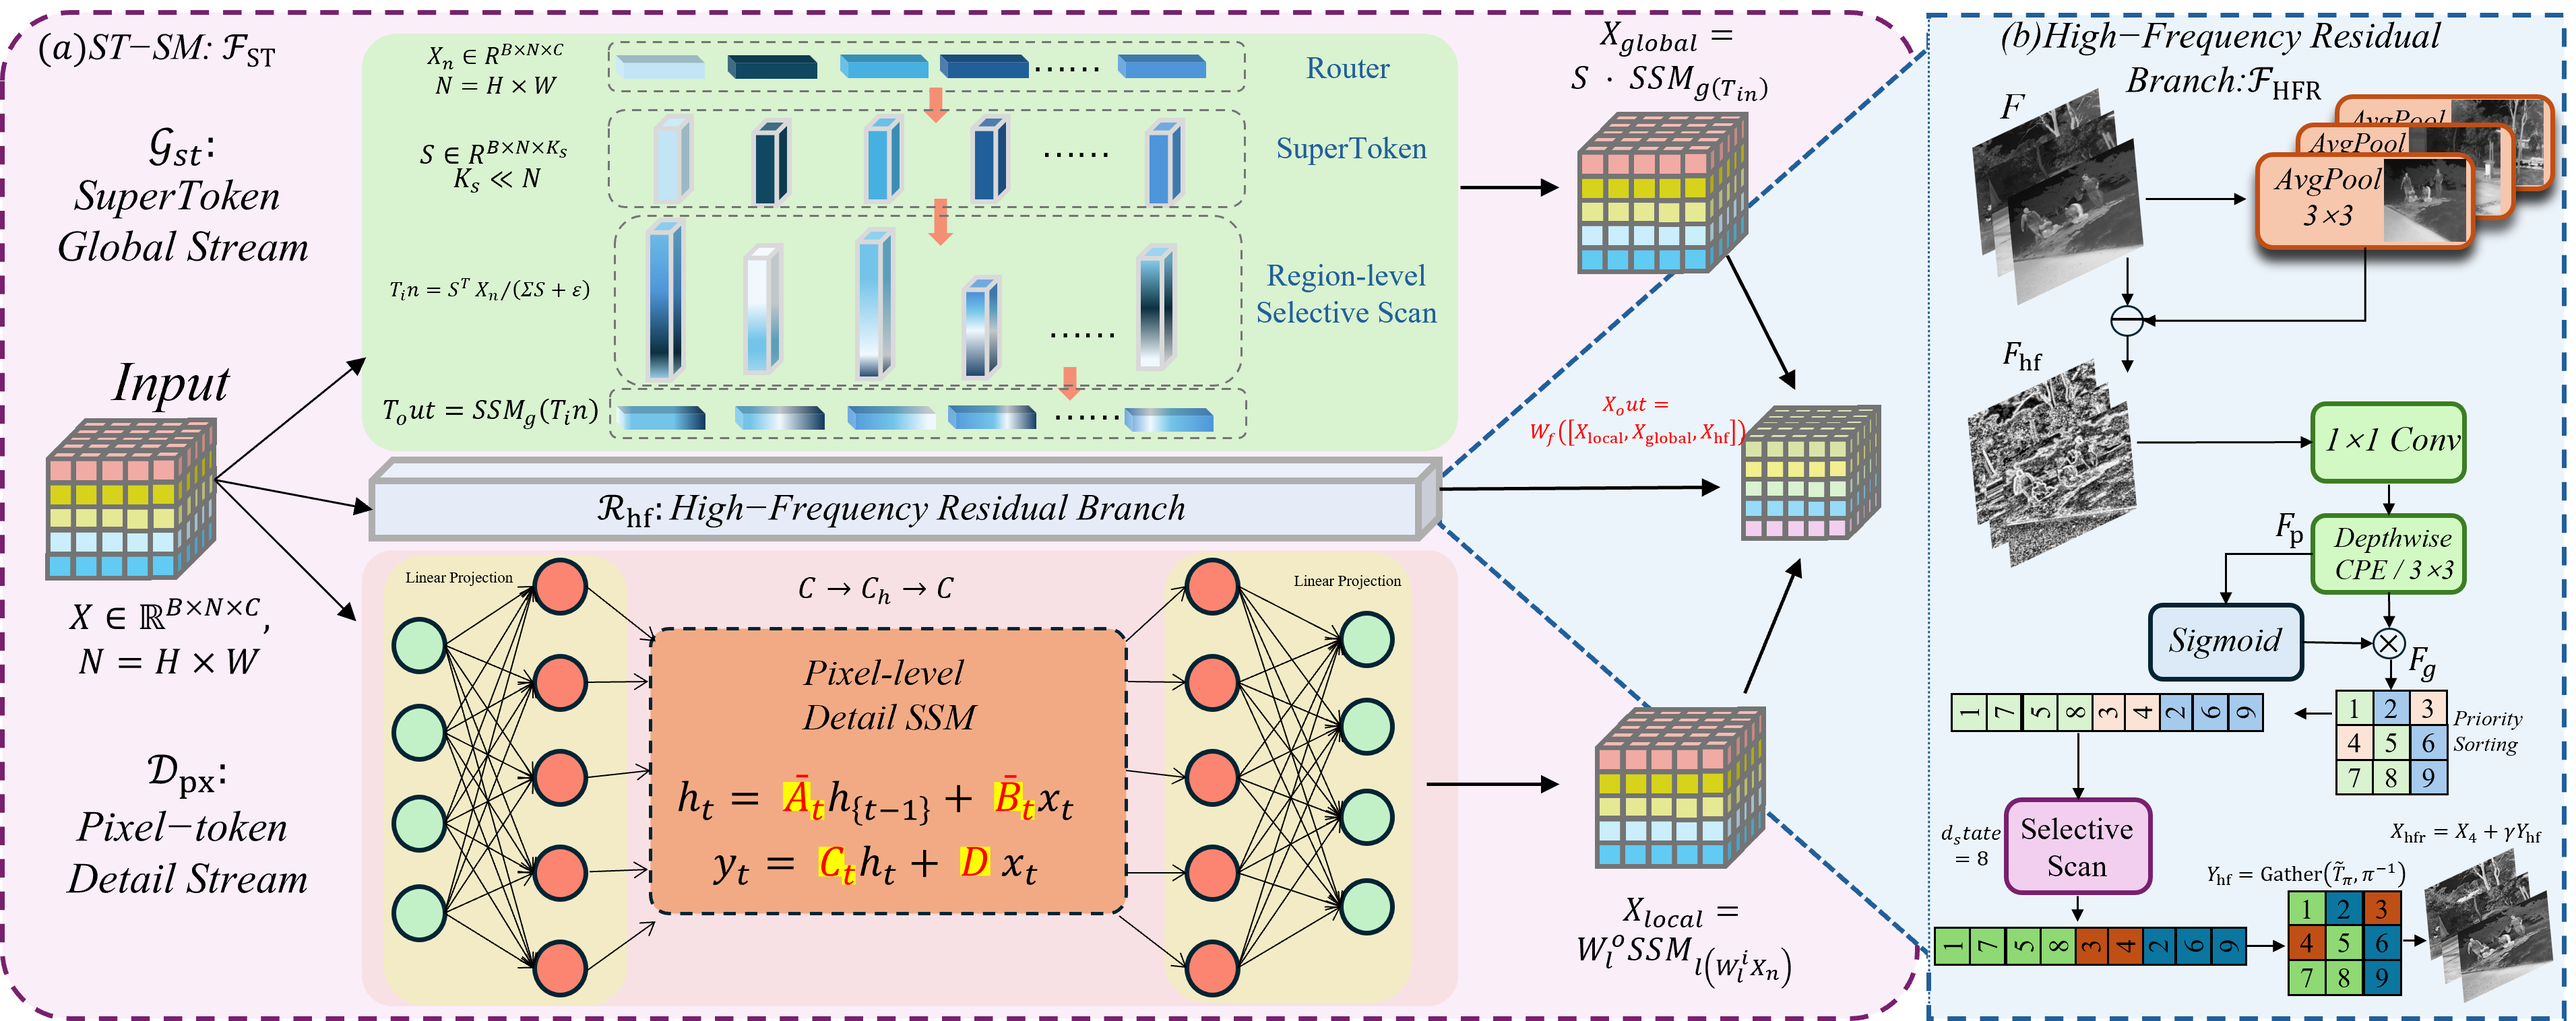
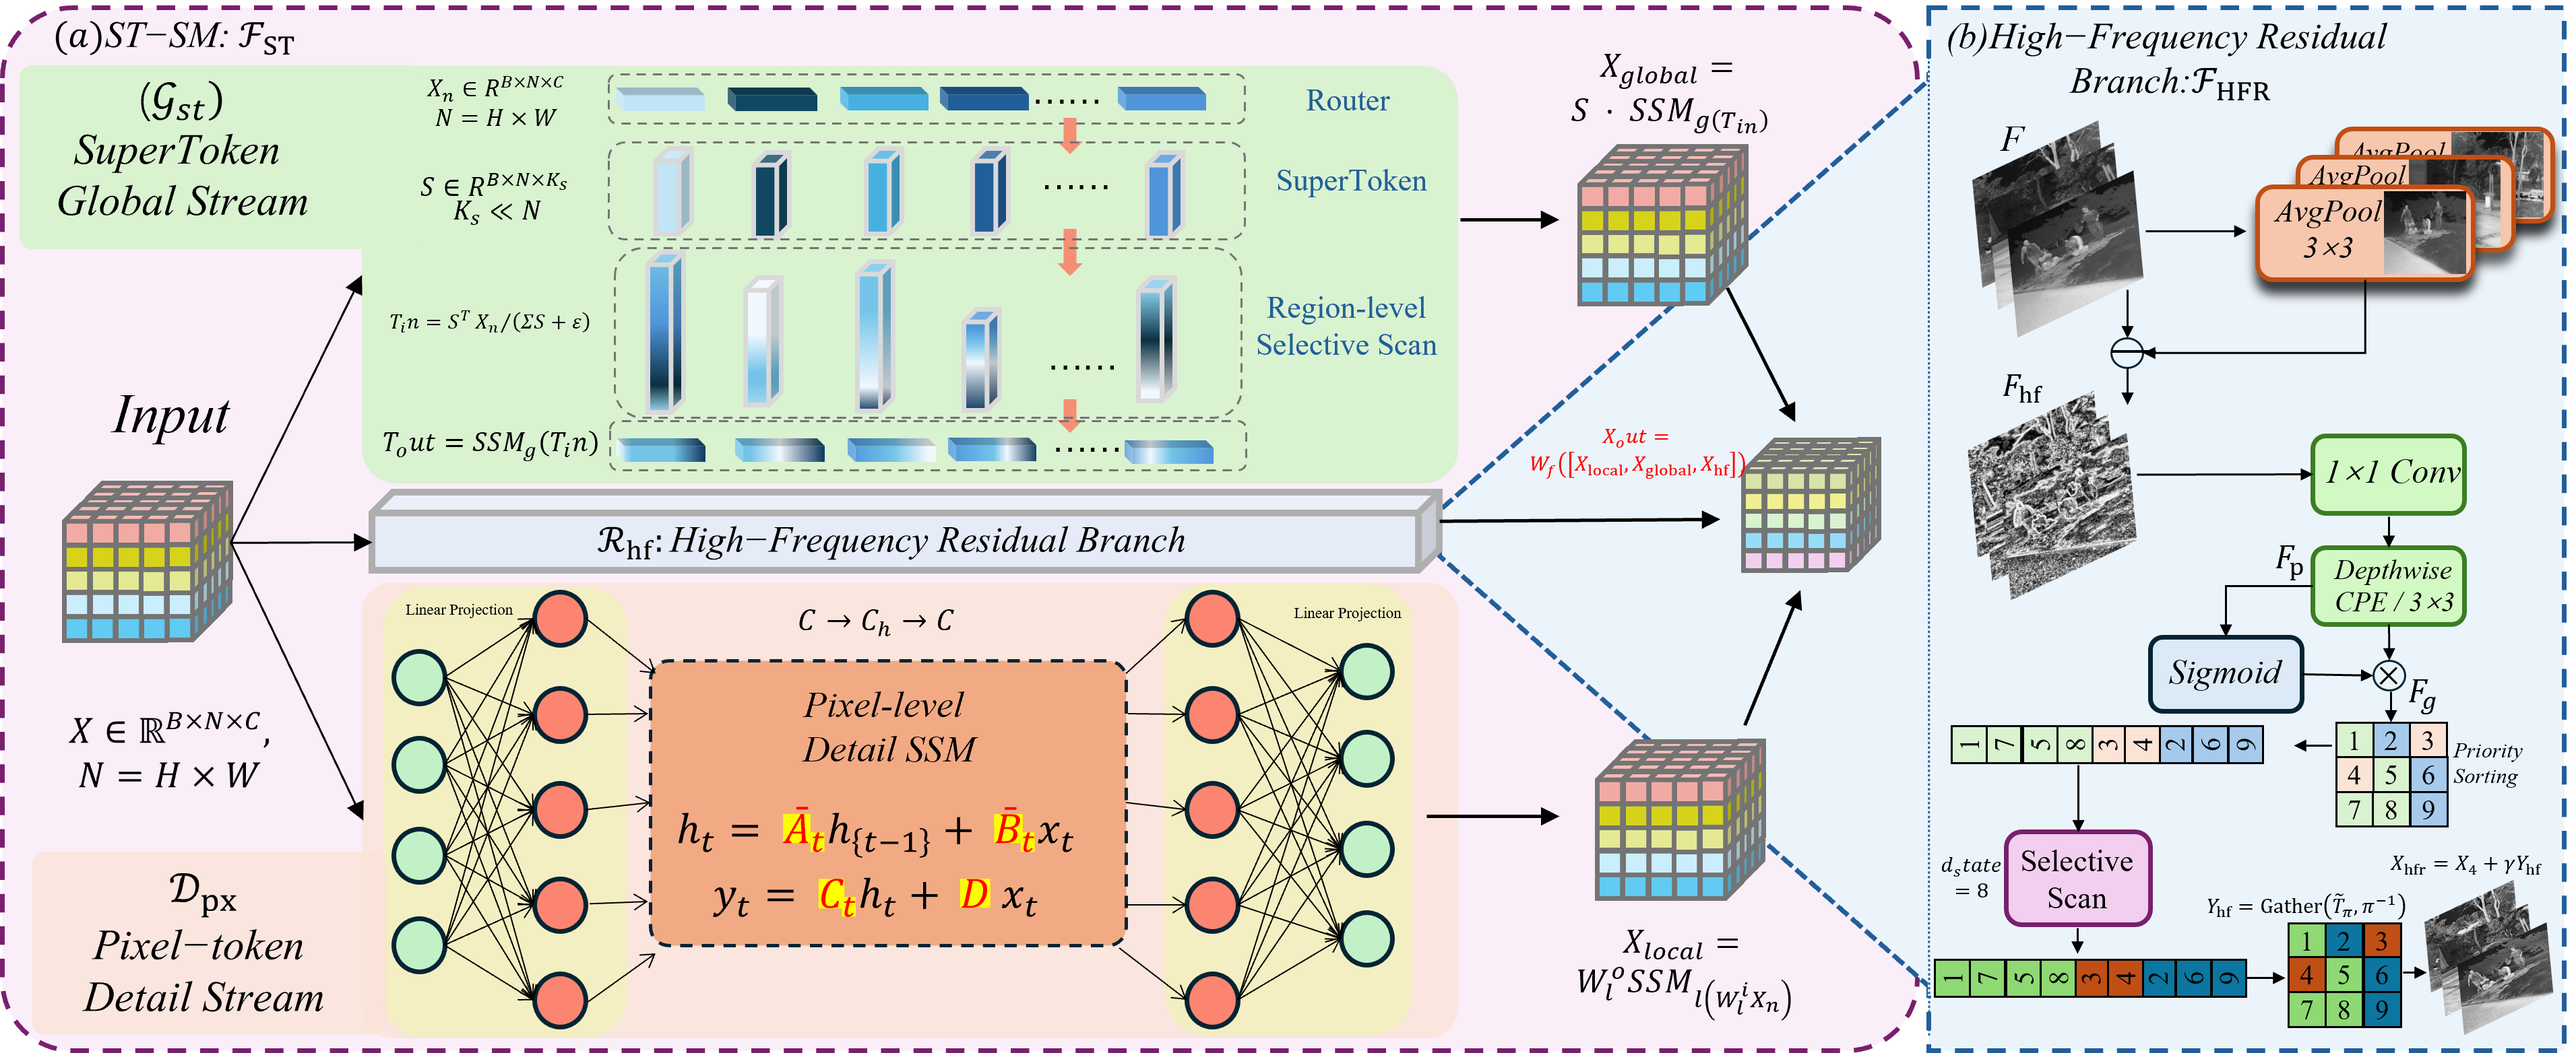
Update WHT3H link and module figure

diff --git a/README.md b/README.md
@@ -66,7 +66,7 @@ Public dataset/source links:
 - T234: [Google Drive](https://drive.google.com/file/d/10jM3NxV17t9_vfnmk7o1-rfEBf2GQRwC/view?usp=drive_link)
 - HM-TIR: [https://github.com/Zihang-Chen/HM-TIR](https://github.com/Zihang-Chen/HM-TIR)
 - Rivadeneira2020: [Thermal Image Super-resolution: A Novel Architecture and Dataset, VISAPP 2020](https://github.com/yongsongH/Infrared_Image_SR_Survey/blob/main/README.md#L2195-L2203)
-- WHT3H: [Google Drive](https://drive.google.com/file/d/1J9mkhKT-h7ncw65RqJdGsTP-bjMOPEB9/view?usp=sharing)
+- WHT3H: [Google Drive](https://drive.google.com/file/d/1Pkwd4RY4hB6I7lL4cTV6WpPE630NJWAG/view?usp=sharing)
 
 To augment the scale of training data and enhance scene diversity, we construct a mixed training dataset denoted as **T234**. It is aggregated from the training portions of HM-TIR, Rivadeneira2020, and WHT3H, contributing 1,200, 951, and 2,064 GT images, respectively. T234 contains 4,215 training images in total and covers diverse resolutions, device sources, and scene categories. This diversity gives the model broader thermal structural distributions and degradation patterns, improving its adaptability to complex infrared non-uniformity noise.
 
